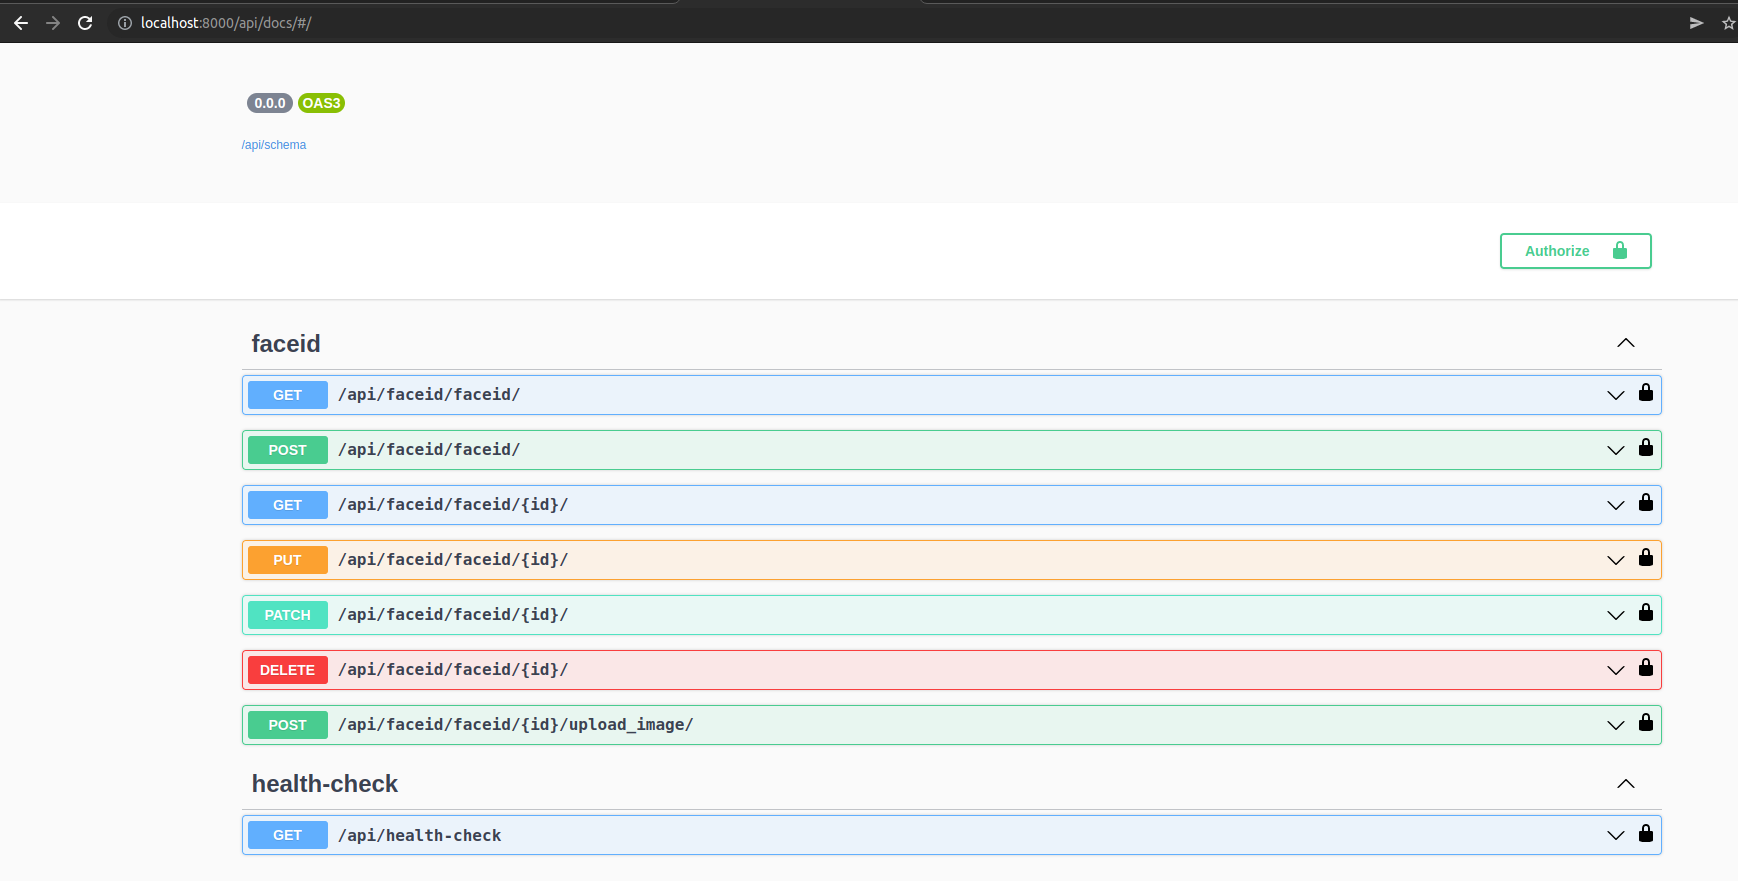
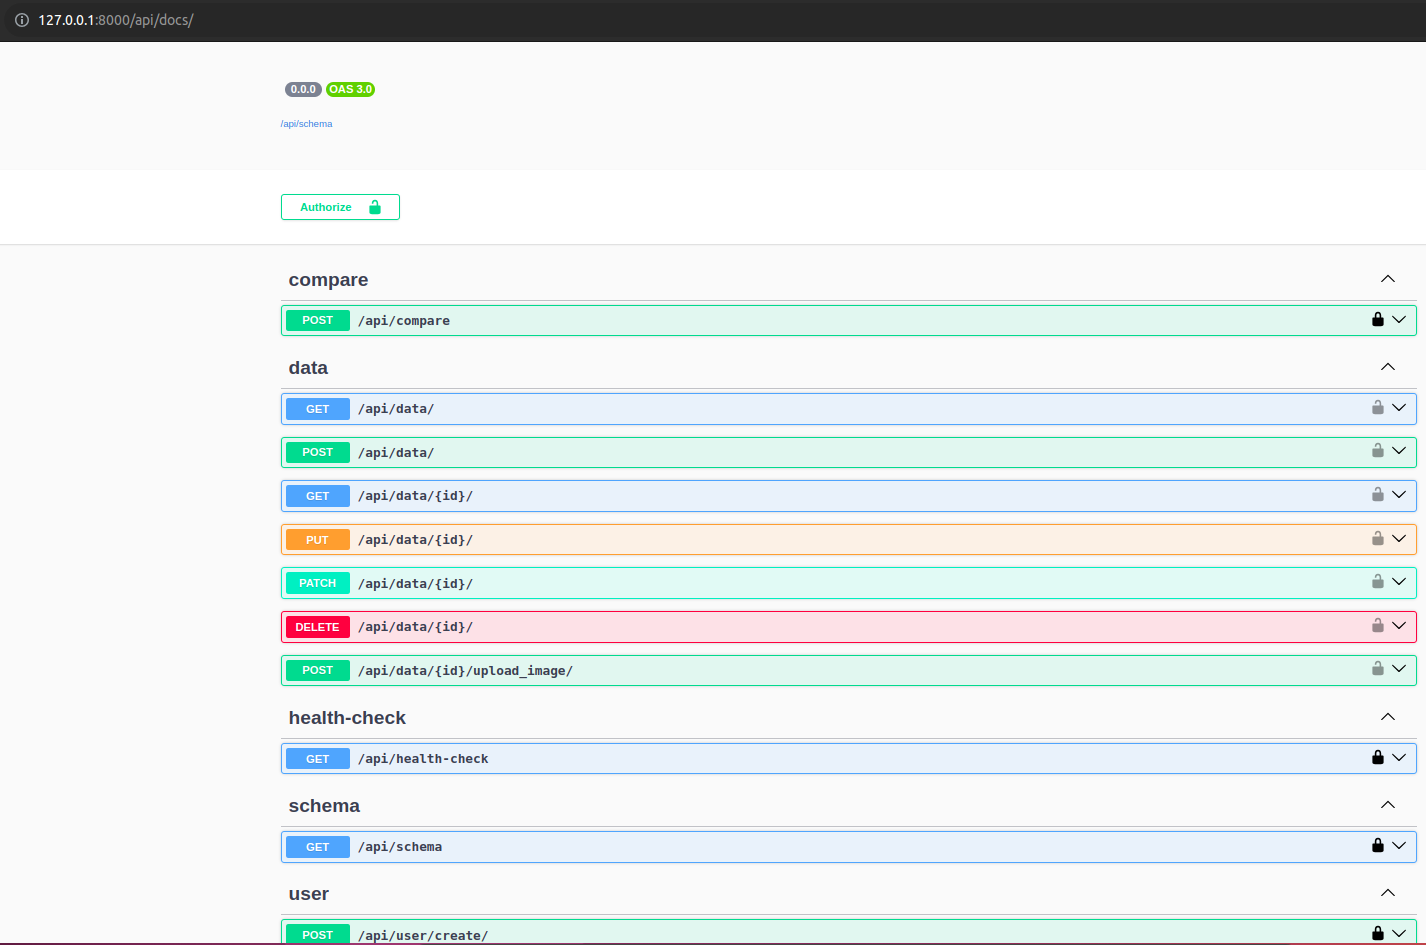
Modify documentation

Changed region(s): [[0.0, 0.2758, 1.0, 1.0], [0.0, 0.0, 1.0, 0.1839], [0.216, 0.2145, 0.2777, 0.2452]]

diff --git a/README.md b/README.md
@@ -1,24 +1,29 @@
-# How to run 
+# Documentation
+## How to run the project
 
-### ```build``` 
-```docker-compose -f docker-compose.yml up --build```
+### BUILD  
+> ```docker-compose -f docker-compose.yml up --build```
 
-### ```run``` 
-```docker-compose -f docker-compose.yml up -d```
+### run  
+> ```docker-compose -f docker-compose.yml up -d```
 
-## ```Test```
-```docker-compose -f docker-compose.yml run --rm app sh -c "python manage.py test"```
+## Test 
+> ```docker-compose -f docker-compose.yml run --rm app sh -c "python manage.py test"```
 
-## ```Browser Test```
+## Browser Test
 
-localhost:8000/api/docs
+### Endpoints: OpenApi Documentation 
+
+> Default URL 
+> - >  localhost:8000/api/docs
+> - >  localhost:8000/admin/
 
 
 ### Screen-shot 
 
 ![alt text](https://github.com/KenanBolat/face-id-app-api/blob/main/faq/ss001.png?raw=true)
 
-# faceid-app-api
+# data-download-app-api
 ## Notes 
     - APIVIEW: 
        - focused around HTTP methods 
@@ -37,6 +42,6 @@ localhost:8000/api/docs
        - Great for CRUD operations on models
 
 # docker permission
-sudo usermod -aG docker <user-name>
-sudo curl -L "https://github.com/docker/compose/releases/download/1.29.1/docker-compose-$(uname -s)-$(uname -m)" -o /usr/local/bin/docker-compose
-sudo chmod +x /usr/local/bin/docker-compose
+> - >  sudo usermod -aG docker <user-name>
+> - > sudo curl -L "https://github.com/docker/compose/releases/download/1.29.1/docker-compose-$(uname -s)-$(uname -m)" -o /usr/local/bin/docker-compose
+> - > -sudo chmod +x /usr/local/bin/docker-compose
